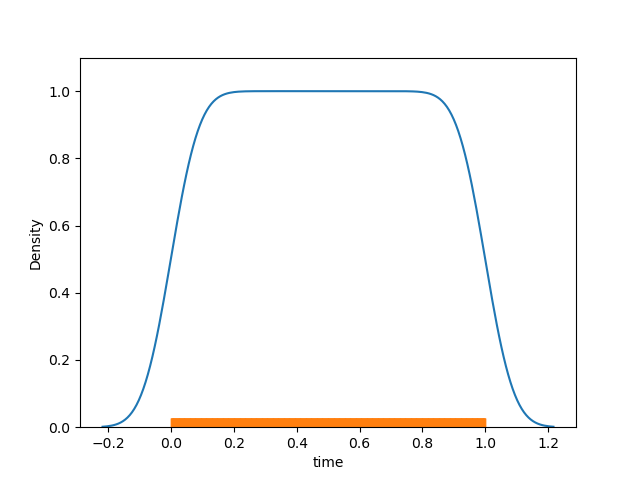
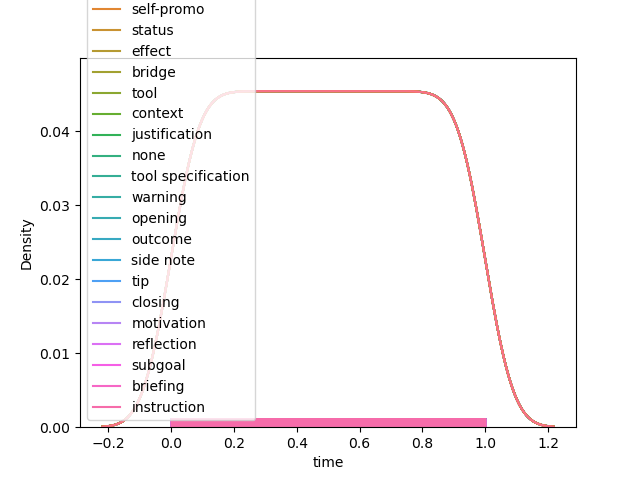
seaborn visualization added

diff --git a/postprocess/analyze_total.py b/postprocess/analyze_total.py
@@ -1,5 +1,6 @@
 import os
 import json
+from xml.dom.minidom import Element
 import pandas as pd
 import numpy as np
 import seaborn as sns
@@ -169,39 +170,43 @@ def visualize_time_data (data):
 
     for t in data['types'].keys():
         types_data[t] = data['types'][t]
-
-
     for c in data['categories'].keys():
         categories_data[c] = data['categories'][c]
     for s in data['sections'].keys():
         sections_data[s] = data['sections'][s]
 
     types_df = pd.DataFrame(types_data)
-
     categories_df = pd.DataFrame (categories_data)
     sections_df = pd.DataFrame (sections_data)
 
-    types_df.set_index('time')
+    types_dfm = types_df.melt('time', var_name = 'type', value_name='counts')
+    categories_dfm = categories_df.melt('time', var_name = 'category', value_name='counts')
+    sections_dfm = sections_df.melt('time', var_name = 'section', value_name='counts')
 
-    print (types_df.head())
+    # sns.kdeplot(data=types_dfm, x="time", y="counts", hue="type")
+    # sns.kdeplot(data=categories_dfm, x="time", y="counts", hue="category")
+    # sns.kdeplot(data=sections_dfm, x="time", y="counts", hue="section")
 
-    # for col in types_df.columns:
-    #     sns.displot (types_df[col], kde=True, rug=True)
+    # histogram
+    # sns.displot (sections_dfm, x="time", y="counts", hue="section", bins=100)
 
-    # plt.show()
+    # line
+    sns.replot (data = sections_dfm, x="time", y="counts", kind="line")
 
-            
-    # sns.kdeplot(data=types_df, x="time")
-    # sns.rugplot(data=types_df, x="time")
+    # kernel density
+    # sns.displot (sections_dfm, x="time", y="counts", hue="section", kde=True)
 
-    # plt.savefig("time_types.png")
+    # sns.displot(data=categories_dfm, x="time", y="counts", hue="category", kind="kde")
+    # sns.rugplot(data=sections_dfm, x="time", y="counts", hue="section")
+
+    plt.show()
             
 
 
 ROOT_DIR = './data/analysis/'
 SAVE_DIR = './data/final/'
 
-# styles
+### styles ###
 # 1st
 first_vids = ['1oiCLxngvBo', 'uUBVc8Ugz0k', '2OoebJA2mnE', '-xCtbeecgKQ', 'z1Xv6Pa0toE', '9mjXFA1TMTI', 'QzS7Z80poKo', 'bwxvH99sLqw', 'ZORD4y7dL08', '-szevr-BRZE', 'KLLqGcgxQEw', 'Czi_ZirnzRo', '73lxEIKyX8M', 'eDG1c6a6uqc', 'Rcsy2HRuiyA', 'CxdRXDN1fkA', 'dJ_qCDWNvXU', 'BzxPDw6ezEc', 'h281yamVFDc', '5AU2vJU-QJM', 'rqBiByEbMHc', 'sM81wJ7GDrI', 'sij_wNj0doI', 'BotYnPhByWg', 'A_qivvTkijw', 'S0luUzNRtq0', 'kPGwDxo5Yf4', 'bg3orsnRCVE', 'Xh_Awznyc7s', 'cGn_oZPotZA', 'Cvv1wiqKMHc', 'AnWGek4P_dY', '7IcOJEEObA0', 'IICwmc4WX2E', 'Eeu5uL6r2rg', 'k0koOhfXv_s', '4WaXJs9RR3E', 'T1j7Yq5-cIs', 'ihCwjLj31hY', '2Xyfgwj92v0', 'zMqzjMrxNR0', 'AbhW9YbQ0fM', 'Df9F8ettY8k', 'ntwi2Unh3JQ', 'ysHg9vOMe_4', 'OcjCNqfRgP0', 'bxXXCP0AE5A', 'Y84sqS2Nljs', 'm0H56KpKLHA', 'ygRQRgR11Zg', 'kNsjE4HO7tE', 'CdZQF4DDAxM']
 # 3rd
@@ -223,31 +228,48 @@ dubbing_vids = ['XN3N5K2axpw', 'WIIjq2GexIw', 'ZT1dvq6yacQ', 'uUBVc8Ugz0k', 'ZeV
 # both
 narration_both_vids = ['z1Xv6Pa0toE', '1Ni8KOzRzuI', 'yu-G9kEKdTo', 'oe7Cz-dxSBY']
 
-vids = [first_vids, third_vids, view_both_vids, screencast_vids, static_move_vids, view_zoom_change_vids, talking_vids, dubbing_vids, narration_both_vids]
+
+### categories ###
+# ane = ['mZZJYDfmgeg', 'XN3N5K2axpw', 'WIIjq2GexIw', '1oiCLxngvBo', 'ZT1dvq6yacQ', 'PyWZYHy17As', 'uUBVc8Ugz0k', 'Nu_By3eTpoc', 'ZeVRqW2J3UY', 'u00iLnvVgFc']
+# cnov = ['2OoebJA2mnE', '-xCtbeecgKQ', '-6tnn1G1dRg', 'z1Xv6Pa0toE', 'T622Ec77ZPY', '9mjXFA1TMTI', 'jhAklPzn0XQ', 'QzS7Z80poKo', 'bwxvH99sLqw', 'mUq6l7N6zuk']
+# cne = ['0SMzqWV6xxs', '_Yb6xLqvsf0', 'nnzPJv5XIws', 'ZORD4y7dL08', '-szevr-BRZE', 'KLLqGcgxQEw', 'Czi_ZirnzRo', 'GFd7kLvhc2Q', '73lxEIKyX8M', 'eDG1c6a6uqc']
+# enc = ['Rcsy2HRuiyA', 'Ag6D8RGQnjw', 'CxdRXDN1fkA', 'dJ_qCDWNvXU', 'VDMOFa8iRqo', 'mQjCKgEPs8k', 'BzxPDw6ezEc', 'pn81__TovpY', 'ZmTxw3UbMO4', 'kz5dJ9SCu4M']
+# fne = ['yJ7VzfG2ONo', 'JNznnqX6SsE', 'dKUomyn1TYQ', 'h281yamVFDc', '5AU2vJU-QJM', 'yYOysPt5gic', '6CJryveLzvI', 'ZY11rbwCaMM', 'xTARWxkTJw0', 'WcD8bG2VB_s']
+# health = ['ta5IB2wy6ic', 'rqBiByEbMHc', '5ywy531EMNA', 'sM81wJ7GDrI', '0TLQg_b1v5Q', '1Ni8KOzRzuI', 'Vrz25x3qnTY', 'sij_wNj0doI', 'BotYnPhByWg', 'djvLEfwwQPU']
+# hnc = ['A_qivvTkijw', 'S0luUzNRtq0', 'eyD2iwXOeFM', 'kPGwDxo5Yf4', 'bg3orsnRCVE', 'HFp5uH12wkc', 'Xh_Awznyc7s', 'cGn_oZPotZA', 'ynmdOz_D1R4', 'yu-G9kEKdTo']
+# hnt = ['Cvv1wiqKMHc', 'EnjZHOb6qNE', 'r6JmI35r5E8', 'AnWGek4P_dY', '7IcOJEEObA0', '-wlSMSl02Xs', 'IICwmc4WX2E', 'Eeu5uL6r2rg', 'k0koOhfXv_s', '4WaXJs9RR3E']
+# hng = ['tb1L7Rsm1U8', 'T1j7Yq5-cIs', 'ihCwjLj31hY', '2Xyfgwj92v0', 'mwpb65gm1e0', 'oe7Cz-dxSBY', 'zMqzjMrxNR0', 'UZJ0nmB3epQ', 'T5MbMuoNQ1k', '0fxL8v2dMho']
+# pcns = ['8DgsLNa3ums', 'N3c81EPZ51Q', 'e3StC_4qemI', 'ntYwKXN82QU', 's4coMAU80U4', '7oXrT1CqLCY', 'uMgpr6X5asI', 'AbhW9YbQ0fM', 'bQKTjz0JKhg', 'SXQHgJHYQgc']
+# pna = ['Df9F8ettY8k', 'ntwi2Unh3JQ', 'ysHg9vOMe_4', 'OcjCNqfRgP0', 'WoDZQRGyuHA', 'wvC3_Rs4mXs', 'bxXXCP0AE5A', '2xXPSfQBP-w', 'yeT52sDtYEU', 'Y84sqS2Nljs']
+# snf = ['XFYHIg8U--4', 'm0H56KpKLHA', '1dALzTPQWJg', 'ygRQRgR11Zg', 'jGsEBwiKnCI', 'kNsjE4HO7tE', 'mj1Fu3-XQpI', 'CdZQF4DDAxM', 'UriwETsgsqg', 'b2EZggyT5O4']
 
 if __name__ == "__main__":
 
     scripts = []
 
+    # selected_dir = "Sports and Fitness"
+
     for root, dirs, files in os.walk (ROOT_DIR):
         for dir_name in dirs:
+            # if (dir_name == selected_dir):
+            if True:
 
-            print ('*' * 30)
-            print ('directory :', dir_name)
+                print ('*' * 30)
+                print ('directory :', dir_name)
 
-            cat_dir = os.path.join (ROOT_DIR, dir_name)
-            files = os.listdir(cat_dir)
-            for file in files:
-                vid = file.split('.')[0]
-                # if vid in narration_both_vids:
-                if True:
-                    print (vid)
-                    fp = os.path.join (cat_dir, file)
-                    script_data = read_json (fp)
-                    scripts.append (script_data)
+                cat_dir = os.path.join (ROOT_DIR, dir_name)
+                files = os.listdir(cat_dir)
+                for file in files:
+                    vid = file.split('.')[0]
+                    # if vid in narration_both_vids:
+                    if True:
+                        print (vid)
+                        fp = os.path.join (cat_dir, file)
+                        script_data = read_json (fp)
+                        scripts.append (script_data)
 
     # analyzed_data = analyze_total (scripts)
-    # fn = os.path.join (SAVE_DIR, 'analyzed_narration_both.json')
+    # fn = os.path.join (SAVE_DIR, 'analyzed_' + selected_dir + '.json')
     # write_json (fn, analyzed_data)
 
     time_type_data = analyze_type_with_time (scripts)

diff --git a/postprocess/analyze_video.py b/postprocess/analyze_video.py
@@ -43,21 +43,21 @@ def analyze_count (data):
 
         # type
         if type not in types.keys():
-            types[type] = {'count': 0, 'portion': 0}
+            types[type] = {'count': 0}
             types[type]['count']=1
         else:
             types[type]['count']+=1
 
         # category
         if category not in categories.keys():
-            categories[category] = {'count': 0, 'portion': 0}
+            categories[category] = {'count': 0}
             categories[category]['count']=1
         else:
             categories[category]['count']+=1   
         
         # section
         if section not in sections.keys():
-            sections[section] = {'count': 0, 'portion': 0}
+            sections[section] = {'count': 0}
             sections[section]['count']=1
         else:
             sections[section]['count']+=1  
@@ -93,21 +93,21 @@ def analyze_time_portion (data):
 
         # type
         if type not in types.keys():
-            types[type] = {'time': 0, 'portion': 0}
+            types[type] = {'time': 0}
             types[type]['time']=line_duration
         else:
             types[type]['time']+=line_duration
 
         # category
         if category not in categories.keys():
-            categories[category] = {'time': 0, 'portion': 0}
+            categories[category] = {'time': 0}
             categories[category]['time']=line_duration
         else:
             categories[category]['time']+=line_duration   
         
         # section
         if section not in sections.keys():
-            sections[section] = {'time': 0, 'portion': 0}
+            sections[section] = {'time': 0}
             sections[section]['time']=line_duration
         else:
             sections[section]['time']+=line_duration
@@ -116,8 +116,9 @@ def analyze_time_portion (data):
     for level in times:
         # types, cateogries, sections
         for item in times[level]:
-            times[level][item]['time'] = times[level][item]['time']
-            times[level][item]['portion'] = times[level][item]['time'] / audio_duration
+            time = times[level][item]['time']
+            portion = time / audio_duration
+            times[level][item]['portion'] = portion
     
     # print (times)
     return audio_duration, times
@@ -125,26 +126,23 @@ def analyze_time_portion (data):
 # count unique number of types
 # level = {type, category, section}
 def get_unique_number (data):
-    types = []
-    categories = []
-    sections = []
+    types = set()
+    categories = set()
+    sections = set()
     for line in data:
         type = line['type']
         category = line['category']
         section = line['section']
 
-        # assert type in TYPES
-        # assert category in CATEGORIES
-        # assert section in SECTIONS
+        assert type in TYPES
+        assert category in CATEGORIES
+        assert section in SECTIONS
 
-        if type not in types:
-            types.append (type)
-        if category not in categories:
-            categories.append (category)
-        if section not in sections:
-            sections.append (section)
+        types.add (type)
+        categories.add (category)
+        sections.add (section)
 
-    unique_count = {'types': {'items': types, 'number': len (types)}, 'categories': {'items': categories, 'number': len (categories)}, 'sections': {'items': sections, 'number': len (sections)}}
+    unique_count = {'types': {'items': list(types), 'number': len (types)}, 'categories': {'items': list(categories), 'number': len (categories)}, 'sections': {'items': list(sections), 'number': len (sections)}}
     
     return unique_count
 

diff --git a/postprocess/analyze_visualization.py b/postprocess/analyze_visualization.py
@@ -1,0 +1,99 @@
+import pandas as pd
+import matplotlib.pyplot as plt
+import os
+import json
+
+def read_json (fp):
+    with open (fp, 'r') as s:
+        script = json.load(s)
+    return script
+
+filepaths = ["./data/final/analyzed_total.json", "./data/final/analyzed_first.json", "./data/final/analyzed_third.json", "./data/final/analyzed_view_both.json", "./data/final/analyzed_screencast.json", "./data/final/analyzed_talking.json", "./data/final/analyzed_dubbing.json", "./data/final/analyzed_narration_both.json", "./data/final/analyzed_static_move.json", "./data/final/analyzed_view_zoom_change.json"]
+styles = ["Total", "1st", "3rd", "View_Both", "Screencast", "Talking", "Dubbing", "Narration_Both", "Static_Move", "View_Zoom_Change"]
+
+# Dataframes
+df_section_count = pd.DataFrame()
+df_category_count = pd.DataFrame()
+df_type_count = pd.DataFrame()
+
+df_section_time = pd.DataFrame()
+df_category_time = pd.DataFrame()
+df_type_time = pd.DataFrame()
+
+
+# Accumulate data
+
+idx = 0
+# Download data
+for fp in filepaths:
+    data = read_json(fp)
+
+    ## Count
+    count_data = data["count"]
+    
+    # Sections
+    for section in count_data["sections"]:
+        df_section_count.loc[styles[idx], section] = count_data["sections"][section]["portion"]   
+    
+    # Categories
+    for category in count_data["categories"]:
+        df_category_count.loc[styles[idx], category] = count_data["categories"][category]["portion"]
+
+    # Types
+    for type in count_data["types"]:
+        df_type_count.loc[styles[idx], type] = count_data["types"][type]["portion"]
+
+
+    ## Time
+    time_data = data["time_portion"]
+
+    # Sections
+    for section in time_data["sections"]:
+        df_section_time.loc[styles[idx], section] = time_data["sections"][section]["time"]
+
+    # Categories
+    for category in time_data["categories"]:
+        df_category_time.loc[styles[idx], category] = time_data["categories"][category]["time"]
+
+    # Types
+    for type in time_data["types"]:
+        df_type_time.loc[styles[idx], type] = time_data["types"][type]["time"]
+
+
+    idx += 1
+
+df_section_count.plot(kind = 'bar', stacked = True, title = 'Proportion of Section (Count)')
+plt.xticks(rotation='horizontal')
+plt.legend(bbox_to_anchor=(1.02, 1), loc='upper left', borderaxespad=0)
+plt.tight_layout()
+plt.show()
+
+df_category_count.plot(kind = 'bar', stacked = True, title = 'Proportion of Category (Count)')
+#plt.xticks(rotation='horizontal')
+plt.legend(bbox_to_anchor=(1.02, 1), loc='upper left', borderaxespad=0)
+plt.tight_layout()
+plt.show() 
+
+df_type_count.plot(kind = 'bar', stacked = True, title = 'Proportion of Type (Count)')
+#plt.xticks(rotation='horizontal')
+plt.legend(bbox_to_anchor=(1.02, 1), loc='upper left', borderaxespad=0)
+plt.tight_layout()
+plt.show() 
+
+df_section_time.plot(kind = 'bar', stacked = True, title = 'Proportion of Section (Time)')
+#plt.xticks(rotation='horizontal')
+plt.legend(bbox_to_anchor=(1.02, 1), loc='upper left', borderaxespad=0)
+plt.tight_layout()
+plt.show()
+
+df_category_time.plot(kind = 'bar', stacked = True, title = 'Proportion of Category (Time)')
+#plt.xticks(rotation='horizontal')
+plt.legend(bbox_to_anchor=(1.02, 1), loc='upper left', borderaxespad=0)
+plt.tight_layout()
+plt.show() 
+
+df_type_time.plot(kind = 'bar', stacked = True, title = 'Proportion of Type (Time)')
+#plt.xticks(rotation='horizontal')
+plt.legend(bbox_to_anchor=(1.02, 1), loc='upper left', borderaxespad=0)
+plt.tight_layout()
+plt.show() 

diff --git a/postprocess/input_to_list.py b/postprocess/input_to_list.py
@@ -1,4 +1,4 @@
-N = 4
+N = 10
 list_input = []
 for i in range (N):
     list_input.append (input())
